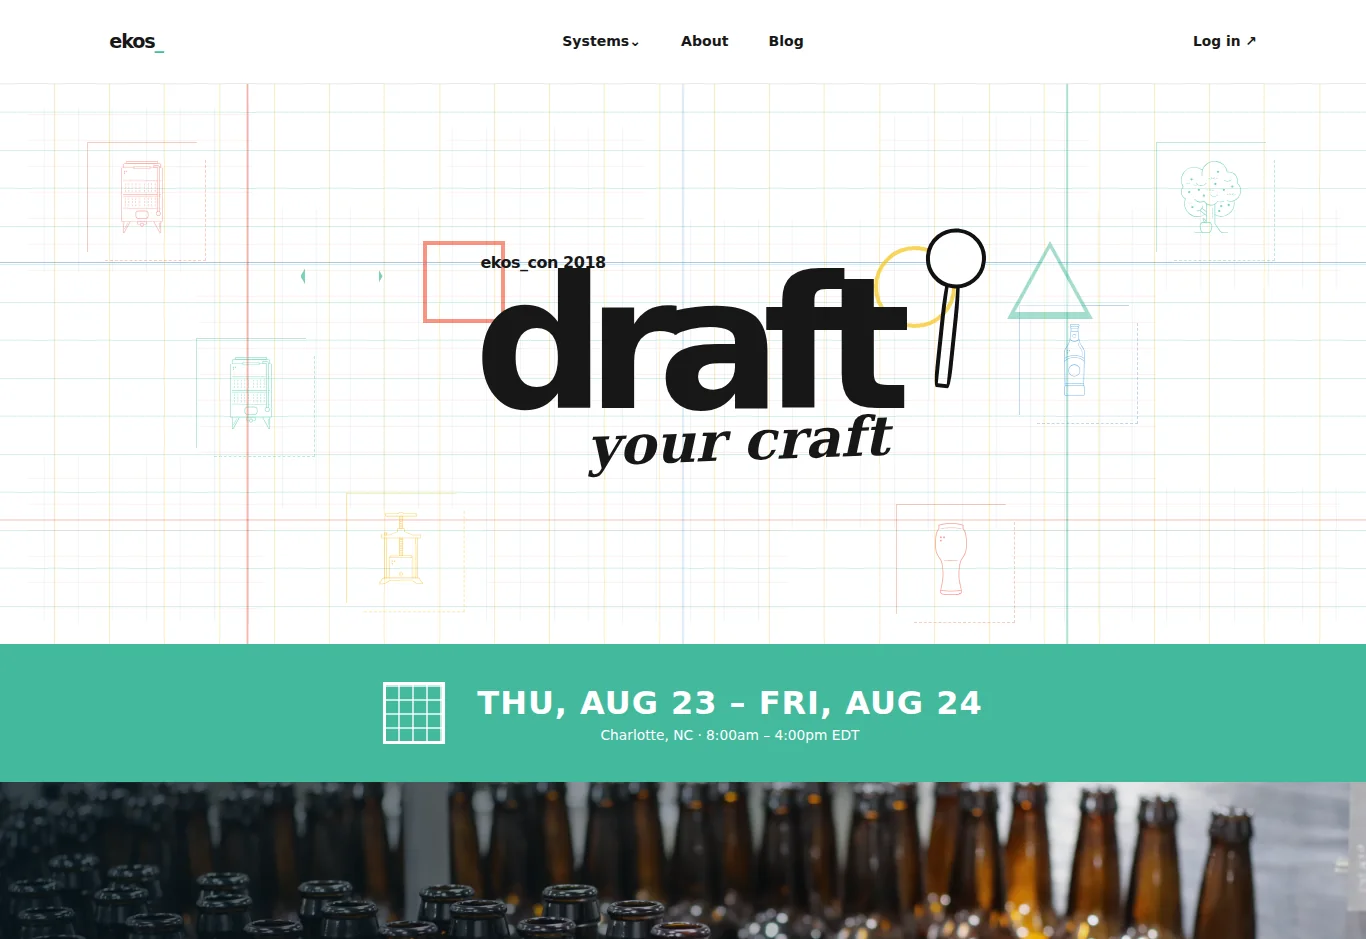
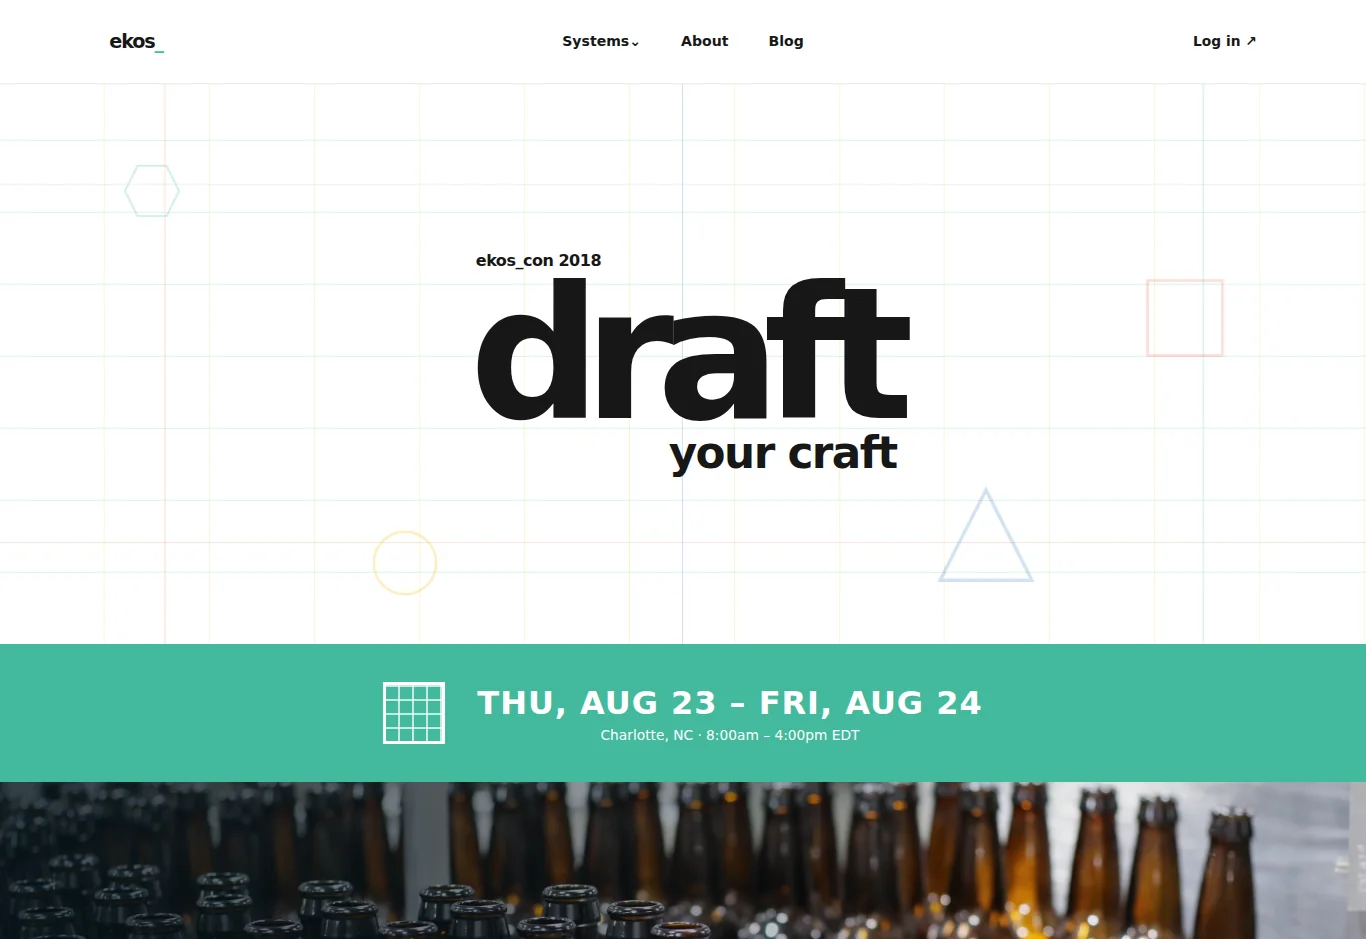
[verified] fix: polish UI gallery presentation
Tap-free Ekos V3.3 regeneration, complete high-contrast cursor pair, and restrained dark-theme Magi edges. Verified locally, independently reviewed, and passed PR checks.

diff --git a/uigallery.html b/uigallery.html
@@ -23,6 +23,7 @@
 </head>
 <body class="visual-archive-page ui-gallery-page">
   <div class="cursor-dot" aria-hidden="true"></div>
+  <div class="cursor-ring" aria-hidden="true"></div>
 
   <!-- generated:site-shell-header:start -->
   <a class="skip-link" href="#main-content">Skip to content</a>
@@ -92,7 +93,7 @@
         <figure class="archive-frame ui-study-view ui-study-view--desktop" data-ui-study-view="ekos-desktop">
           <div class="ui-scroll-screen" data-ui-scroll-screen tabindex="0" aria-label="Scroll through the complete Ekos Con desktop page">
             <img data-ui-study-image data-ui-scroll-image loading="lazy" decoding="async"
-              src="images/ui-gallery/ekos-desktop.webp" width="1320" height="2724"
+              src="images/ui-gallery/ekos-desktop.webp" width="1320" height="2715"
               alt="Complete Ekos Con desktop landing-page cleanup with drafting-grid construction, event details, brewery photograph, pricing, and lodging information">
           </div>
         </figure>

diff --git a/css/ui-gallery.css b/css/ui-gallery.css
@@ -18,6 +18,10 @@ html[data-theme="dark"] .ui-gallery-page {
   --ui-accent: #baff50;
 }
 
+body.ui-gallery-page .cursor-dot{background:var(--ui-accent);box-shadow:0 0 0 1px #101820}
+body.ui-gallery-page .cursor-ring{border-color:var(--ui-accent);box-shadow:0 0 0 1px rgba(16,24,32,.9);opacity:.8}
+body.ui-gallery-page .cursor-ring--hover{border-color:var(--ui-accent);opacity:.5}
+
 .ui-gallery-page .page-content {
   overflow: clip;
 }
@@ -163,6 +167,8 @@ html[data-theme="dark"] .ui-scroll-screen:focus-visible {
 .ui-study-grid--magi .ui-study-view--overview {
   grid-column: span 4;
 }
+
+html[data-theme="dark"] .ui-study-grid--magi .ui-study-view{box-shadow:0 0 0 1px rgba(242,242,233,.24)}
 
 .ui-study-view--architecture > img,
 .ui-study-view--overview > img {

diff --git a/scripts/build-ui-gallery-assets.py b/scripts/build-ui-gallery-assets.py
@@ -11,7 +11,7 @@ EKOS_SOURCE_ENV = "EKOS_UI_GALLERY_SOURCE"
 EXPANDED_SOURCE_ENV = "UI_GALLERY_EXPANDED_SOURCE"
 
 EKOS_SOURCES = {
-    "desktop": "ekos-polished-desktop-v3-2.png",
+    "desktop": "ekos-polished-desktop-v3-3.png",
 }
 
 EXPANDED_SOURCES = {
@@ -30,7 +30,7 @@ def parse_args() -> argparse.Namespace:
         dest="ekos_source",
         type=Path,
         default=Path(ekos_source) if ekos_source else None,
-        help=f"Approved Ekos V3.2 preview directory. Defaults to ${EKOS_SOURCE_ENV}.",
+        help=f"Approved Ekos V3.3 preview directory. Defaults to ${EKOS_SOURCE_ENV}.",
     )
     parser.add_argument(
         "--expanded-source",
